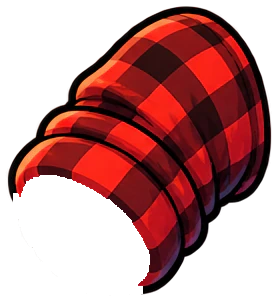
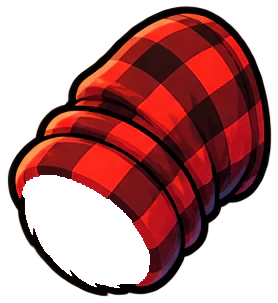
Elbow: forearm clipped to beyond the elbow bisector plus the cuff opening (no fur poking out beside the sleeve); cuff's outer edge outline kept on the sleeve layer so the forearm comes out from under the hem; bench exposes buck for debugging; ImageGen brief for redrawn sleeves
Claude-Session: https://claude.ai/code/session_019y9mnUXUPaEfc3RnRYJBge

Changed region(s): [[0.0288, 0.6238, 0.518, 0.9802]]

diff --git a/src/render/mascot/Buck.ts b/src/render/mascot/Buck.ts
@@ -168,6 +168,8 @@ export class Buck {
   /** traîne des mains (action secondaire) : la main suit l'avant-bras avec un léger retard */
   /** pose de la queue (rotation dans le plan du sol : le torse qui pivote ne l'enfonce pas) */
   private tailPose = { r: 0, sy: TAIL_SY };
+  /** masques des avant-bras (voir clipForearm) */
+  private elbowMask: Record<Side, Graphics> = { F: new Graphics(), B: new Graphics() };
   private drag: Record<Side, { a: number; last: number; t: number }> = { F: { a: 0, last: NaN, t: 0 }, B: { a: 0, last: NaN, t: 0 } };
 
   constructor() {
@@ -179,6 +181,10 @@ export class Buck {
     this.rig.setAlt('handF', 'open');
     this.rig.setAlt('handB', 'open');
     this.rig.setAlt('tail', 'ground');
+    for (const side of ['F', 'B'] as const) {
+      this.rig.part(IK[side].upper).addChild(this.elbowMask[side]);
+      this.rig.sprite(IK[side].fore).mask = this.elbowMask[side];
+    }
     // pieds : semelles des bottes (pas la boîte englobante des textures tournées) -> sur le centre de l'ombre
     this.rig.body.y = -this.soleY() + 3;
     // fin d'image, après toutes les animations : jambes (pieds ancrés), puis bras (respiration, traîne des mains)
@@ -187,11 +193,68 @@ export class Buck {
       this.updateDrag();
       this.applyArm('F');
       this.applyArm('B');
+      this.clipForearm('F');
+      this.clipForearm('B');
     };
     this.drawShadow(1);
     this.applyArm('F');
     this.applyArm('B');
     this.startIdle();
+  }
+
+  /**
+   * Coude : l'avant-bras ne se montre qu'au-delà du coude (côté main de la bissectrice du coude) et dans l'ouverture
+   * de la manche ; il ne dépasse plus à côté de la manche vers l'épaule. Masque dans le repère du bras (suit la pliure).
+   */
+  private clipForearm(side: Side): void {
+    const a = IK[side];
+    const m = this.elbowMask[side];
+    const arm = this.rig.part(a.upper);
+    const fore = this.rig.part(a.fore);
+    const hand = PART[a.hand]!;
+    const fp = PART[a.fore]!;
+    const k = fp.scale ?? 1;
+    // coude et directions (repère du bras : origine = épaule)
+    const ex = fore.x;
+    const ey = fore.y;
+    const ul = Math.hypot(ex, ey) || 1;
+    const u: Vec = [-ex / ul, -ey / ul];
+    const vx = (hand.attach![0] - fp.pivot[0]) * k;
+    const vy = (hand.attach![1] - fp.pivot[1]) * k;
+    const c = Math.cos(fore.rotation);
+    const s = Math.sin(fore.rotation);
+    const fx = vx * c - vy * s;
+    const fy = vx * s + vy * c;
+    const fl = Math.hypot(fx, fy) || 1;
+    let nx = fx / fl - u[0];
+    let ny = fy / fl - u[1];
+    const nl = Math.hypot(nx, ny) || 1;
+    nx /= nl;
+    ny /= nl;
+    const d = 12;
+    const L = 3000;
+    const ox = ex - nx * d;
+    const oy = ey - ny * d;
+    const tx = -ny;
+    const ty = nx;
+    m.clear();
+    m.poly([ox + tx * L, oy + ty * L, ox + tx * L + nx * L, oy + ty * L + ny * L, ox - tx * L + nx * L, oy - ty * L + ny * L, ox - tx * L, oy - ty * L]).fill(0xffffff);
+    const op = a.opening;
+    if (op) {
+      const ap = PART[a.upper]!;
+      const ka = ap.scale ?? 1;
+      const cx = (op.c[0] - ap.pivot[0]) * ka;
+      const cy = (op.c[1] - ap.pivot[1]) * ka;
+      const t = (op.deg * Math.PI) / 180;
+      const pts: number[] = [];
+      for (let i = 0; i < 28; i++) {
+        const w = (i / 28) * Math.PI * 2;
+        const px = Math.cos(w) * op.r[0] * ka;
+        const py = Math.sin(w) * op.r[1] * ka;
+        pts.push(cx + px * Math.cos(t) - py * Math.sin(t), cy + px * Math.sin(t) + py * Math.cos(t));
+      }
+      m.poly(pts).fill(0xffffff);
+    }
   }
 
   /** bas des semelles dans le repère du corps (px), calculé par la chaîne cuisse -> tibia au repos */

diff --git a/src/render/mascot/armIk.ts b/src/render/mascot/armIk.ts
@@ -15,6 +15,8 @@ export interface IkArm {
   upperLen: number;
   foreAxis: number;
   foreLen: number;
+  /** ouverture du poignet de manche (px de la texture du bras) : centre, demi-axes, angle du grand axe (deg) */
+  opening?: { c: [number, number]; r: [number, number]; deg: number };
 }
 
 export type Vec = [number, number];

diff --git a/src/dev/mascotBench.ts b/src/dev/mascotBench.ts
@@ -69,6 +69,8 @@ async function main(): Promise<void> {
     heads,
     actions,
     hideBar: () => (bar.style.display = 'none'),
+    /** débogage du rig (dev uniquement) */
+    buck,
   };
   if (q.has('qa')) clock.useVirtual();
   else clock.start();
